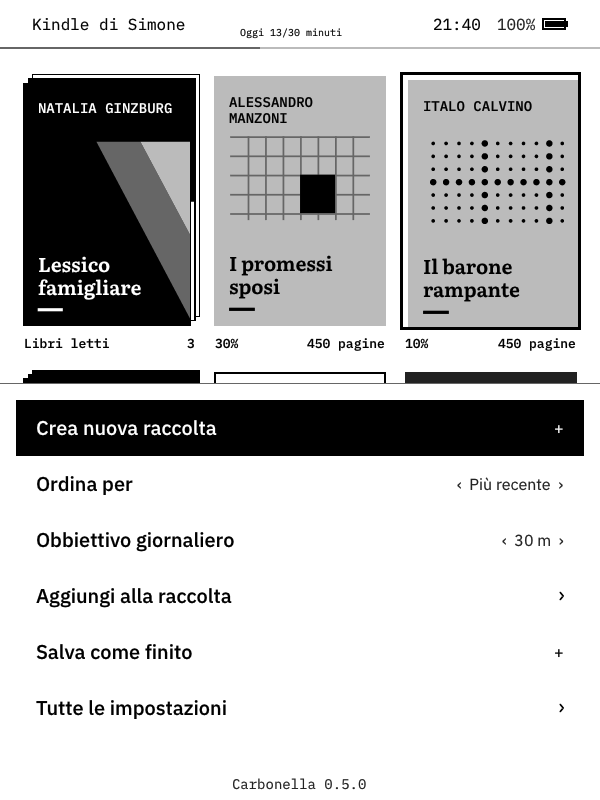
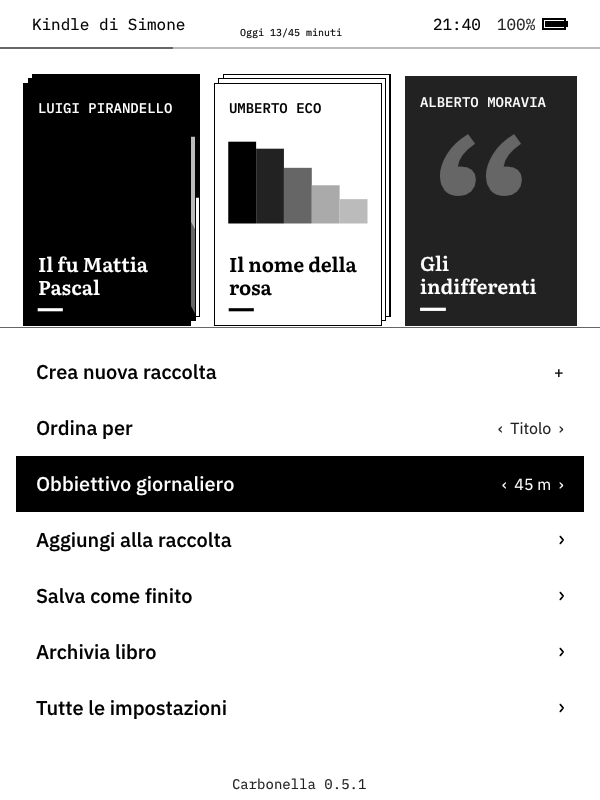
Add Archivia libro to the Home menu (v0.5.1)
Claude-Session: https://claude.ai/code/session_017ad5J4fR8Z3br3R8tAxccF

diff --git a/src/app.c b/src/app.c
@@ -2167,6 +2167,47 @@ static int move_books(App *a, LibEntry *focus)
     return moved;
 }
 
+/* "Archivia libro": the focused book goes into the "Archivio" collection (created if missing), so it
+ * leaves the Home but stays on the Kindle. It comes back with "Aggiungi alla raccolta". */
+#define ARCHIVE_NAME "Archivio"
+static int archive_book(App *a, LibEntry *e)
+{
+    char dir[1024], mark[1100];
+    snprintf(dir, sizeof dir, "%s/" ARCHIVE_NAME, a->books);
+    snprintf(mark, sizeof mark, "%s/" COLL_MARK, dir);
+    if (mkdir(dir, 0755) != 0 && errno != EEXIST) {
+        message(a, "Non riesco ad archiviare il libro", strerror(errno), REFRESH_PARTIAL);
+        input_wait(4000, NULL);
+        return 0;
+    }
+    FILE *f = fopen(mark, "a");
+    if (f)
+        fclose(f);
+    const char *base = strrchr(e->path, '/');
+    base = base ? base + 1 : e->path;
+    char np[1200];
+    snprintf(np, sizeof np, "%s/%s", dir, base);
+    if (strcmp(np, e->path) == 0)
+        return 0;
+    if (access(np, F_OK) == 0) {
+        message(a, "C'è già un file con questo nome", base, REFRESH_PARTIAL);
+        input_wait(4000, NULL);
+        return 0;
+    }
+    if (rename(e->path, np) != 0) {
+        message(a, "Non riesco ad archiviare il libro", strerror(errno), REFRESH_PARTIAL);
+        input_wait(4000, NULL);
+        return 0;
+    }
+    log_msg("archived %s -> %s", e->path, np);
+    free(e->path);
+    e->path = xstrdup(np);
+    library_save_positions(&a->lib, a->data);
+    message(a, "Libro archiviato", e->title, REFRESH_PARTIAL);
+    input_wait(1500, NULL);
+    return 1;
+}
+
 static void sort_step(App *a, int dir) { a->sort = (a->sort + (dir > 0 ? 1 : 2)) % 3; }
 
 static void goal_step(App *a, int dir)
@@ -2194,13 +2235,14 @@ static void mark_finished(App *a, LibEntry *e)
  * Returns 1 to read the library again, 2 to exit, 0 otherwise. */
 static int home_menu(App *a, LibEntry *focus)
 {
-    enum { H_NEWCOLL, H_SORT, H_GOAL, H_ADDCOLL, H_FINISHED, H_SETTINGS, H_N };
+    enum { H_NEWCOLL, H_SORT, H_GOAL, H_ADDCOLL, H_FINISHED, H_ARCHIVE, H_SETTINGS, H_N };
     Row rows[H_N] = {
         { "Crea nuova raccolta", "", ICON_PLUS },
         { "Ordina per", "", ICON_NONE },
         { "Obbiettivo giornaliero", "", ICON_NONE },
         { "Aggiungi alla raccolta", "", ICON_ARROW },
-        { "Salva come finito", "", ICON_PLUS },
+        { "Salva come finito", "", ICON_ARROW },
+        { "Archivia libro", "", ICON_ARROW },
         { "Tutte le impostazioni", "", ICON_ARROW },
     };
     char ver[48];
@@ -2228,6 +2270,12 @@ static int home_menu(App *a, LibEntry *focus)
                 mark_finished(a, focus);
                 return 1;
             }
+            message(a, "Scegli prima un libro", "Metti il riquadro su una copertina e riapri il menu.", REFRESH_PARTIAL);
+            input_wait(3000, NULL);
+            return changed;
+        case H_ARCHIVE:
+            if (focus)
+                return archive_book(a, focus) ? 1 : changed;
             message(a, "Scegli prima un libro", "Metti il riquadro su una copertina e riapri il menu.", REFRESH_PARTIAL);
             input_wait(3000, NULL);
             return changed;

diff --git a/src/carbonella.h b/src/carbonella.h
@@ -18,7 +18,7 @@
 #include <stddef.h>
 #include <stdint.h>
 
-#define CARBONELLA_VERSION "0.5.0"
+#define CARBONELLA_VERSION "0.5.1"
 
 /* ------------------------------------------------------------------ util */
 

diff --git a/diario/2026-11-17-v05-obiettivi.md b/diario/2026-11-17-v05-obiettivi.md
@@ -52,11 +52,25 @@ Lettura, menu di lettura, segnalibro e pagina 2 delle impostazioni erano uguali 
 ![Obiettivi](img/2026-11-17-v05-obiettivi.png)
 ![Obiettivo raggiunto](img/2026-11-17-v05-obiettivo-raggiunto.png)
 
+## v0.5.1: Archivia libro
+
+Mentre la v0.5.0 si installava, ho ricontrollato Figma per creare la sezione di versione. Simone aveva
+aggiunto **Archivia libro** al menu della Home e messo la freccia a *Salva come finito*. Ho fatto subito
+la v0.5.1.
+
+Il frame non dice cosa fa *Archivia libro*, quindi ho scelto la lettura più semplice e reversibile: il
+libro va nella raccolta "Archivio". La Home lo mostra come una pila, e il libro si può spostare di nuovo
+con *Aggiungi alla raccolta*.
+
+Lezione, di nuovo: rileggere Figma subito prima di ogni installazione, perché Simone lavora sui frame in
+diretta.
+
 ## Da chiedere a Simone
 
 - Nel frame Obiettivi il piè di pagina dice "Pagina 1 di 2", ma la pagina 2 non è disegnata. Per ora
   scrivo "Pagina 1 di 1".
 - Senza "Nessuna raccolta" non si può più togliere un libro da una raccolta. Se serve, va aggiunta una
   voce in Figma.
+- *Archivia libro*: va bene che sposti il libro nella raccolta "Archivio"?
 - La Home dice ancora "Obbiettivo" con due b, mentre Impostazioni e Obiettivi dicono "Obiettivo". Ho
   lasciato tutto come nei frame.

diff --git a/CHANGELOG.md b/CHANGELOG.md
@@ -2,6 +2,15 @@
 
 Le versioni seguono lo schema `MAGGIORE.MINORE.CORREZIONE`. Finché siamo a `0.x` tutto può cambiare.
 
+## v0.5.1 · 2026-11-17
+
+Simone ha aggiunto una voce al menu della Home mentre installavo la v0.5.0.
+
+- **Menu della Home**: nuova voce *Archivia libro* (›), prima di *Tutte le impostazioni*. Sposta il libro
+  con il riquadro nella raccolta "Archivio", creata se non c'è. Il libro lascia la Home ma resta sul
+  Kindle e si riprende con *Aggiungi alla raccolta*.
+- *Salva come finito* ora ha la freccia (›) invece del +, come nel frame.
+
 ## v0.5.0 · 2026-11-17 · "Obiettivi"
 
 Simone ha migliorato i frame in Figma ("ho migliorato tutto, aggiorna ora"). Riportati parola per parola.
